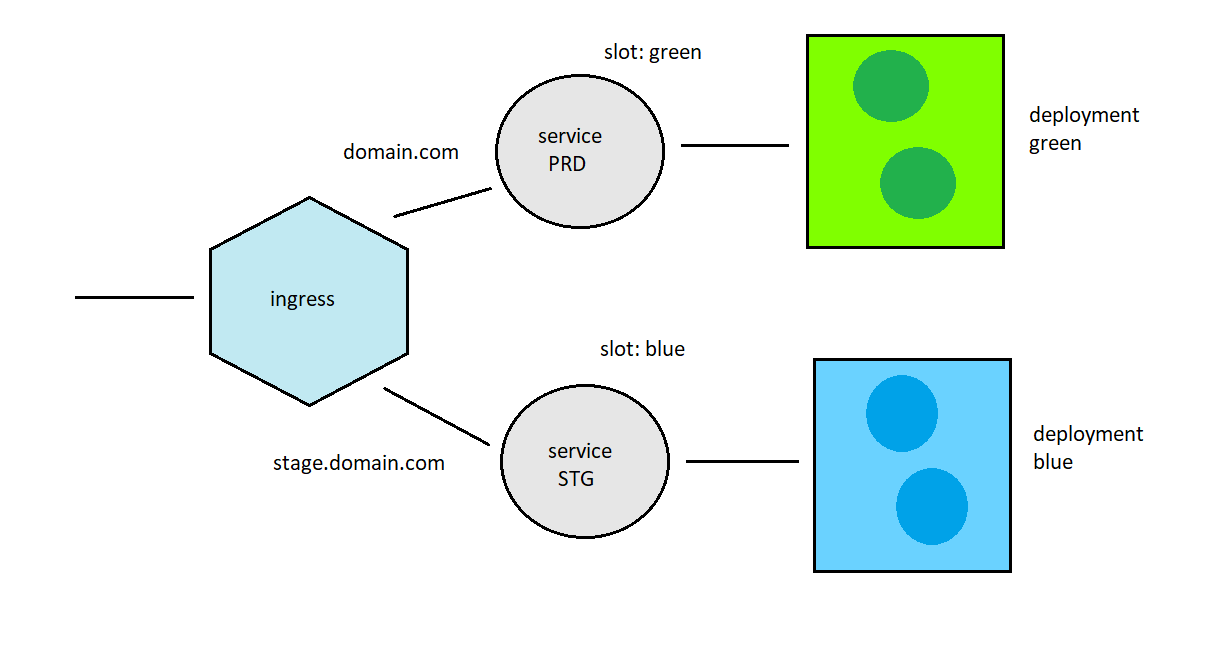
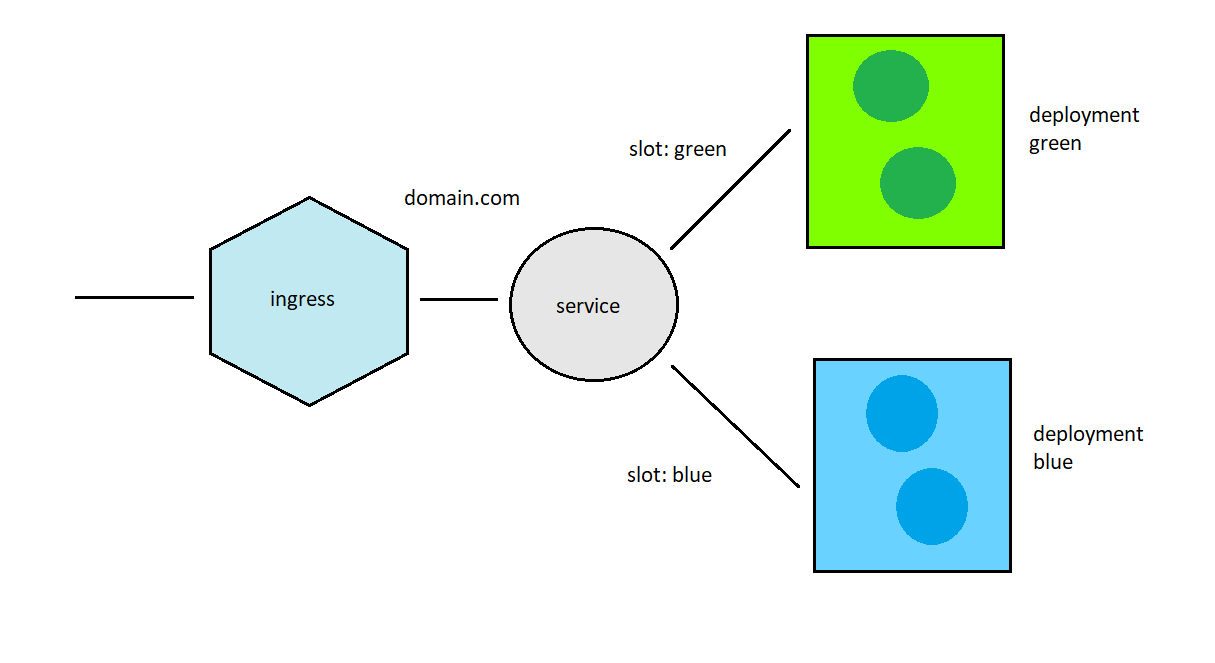
fixing documentation

diff --git a/README.md b/README.md
@@ -57,20 +57,17 @@ Looking at the yaml files in the template folder
 │   ├── green
 │   │   ├── config.yaml
 │   │   └── deployment.yaml
-│   ├── prd
-│   │   ├── ingress.yaml
-│   │   └── service.yaml
-│   └── stg
-│       ├── ingress.yaml
-│       └── service.yaml
+│   ├── ingress.yaml
+│   └── service.yaml
 └── values.yaml
+
 ```
 
 we get the following topology of the system
 
 ![](./topology.png)
 
-where the service prd and the service stg use the selector **slot:blue|green** to point the the right deployment.
+where the service use the selector **slot:blue|green** to point the the right deployment.
 
 ## Release 0.1.0
 
@@ -99,8 +96,7 @@ result
 NAME             TYPE           CLUSTER-IP      EXTERNAL-IP   PORT(S)                      AGE
 ingress-nginx    LoadBalancer   10.97.201.105   localhost     80:31940/TCP,443:30232/TCP   42h
 kubernetes       ClusterIP      10.96.0.1       <none>        443/TCP                      2d3h
-my-service-prd   ClusterIP      10.102.1.193    <none>        80/TCP                       38m
-my-service-stg   ClusterIP      10.102.94.73    <none>        80/TCP                       38m
+my-service       ClusterIP      10.102.1.193    <none>        80/TCP                       38m
 
 > kubectl get configmap
 NAME                              DATA   AGE
@@ -123,7 +119,7 @@ my-service-blue-598ffcc8d5-qwbbn            1/1     Running   0          2m37s
 my-service-green-7fb46c446d-mx8gs           1/1     Running   0          40m
 nginx-ingress-controller-7f74f657bd-gfxcv   1/1     Running   0          42h
 
-❯ curl http://localhost.prd/weatherforecast/slot -v
+❯ curl http://localhost/weatherforecast/slot -v
 *   Trying 127.0.0.1...
 * TCP_NODELAY set
 * Connected to localhost.prd (127.0.0.1) port 80 (#0)
@@ -146,30 +142,6 @@ nginx-ingress-controller-7f74f657bd-gfxcv   1/1     Running   0          42h
 <
 * Connection #0 to host localhost.prd left intact
 green - 0.1.0#
-
-❯ curl http://localhost.stg/weatherforecast/slot -v
-*   Trying 127.0.0.1...
-* TCP_NODELAY set
-* Connected to localhost.stg (127.0.0.1) port 80 (#0)
-> GET /weatherforecast/slot HTTP/1.1
-> Host: localhost.stg
-> User-Agent: curl/7.58.0
-> Accept: */*
->
-< HTTP/1.1 200 OK
-< Server: nginx/1.17.8
-< Date: Thu, 05 Mar 2020 12:05:00 GMT
-< Content-Type: text/plain; charset=utf-8
-< Transfer-Encoding: chunked
-< Connection: keep-alive
-< Vary: Accept-Encoding
-< Access-Control-Allow-Origin: *
-< Access-Control-Allow-Credentials: true
-< Access-Control-Allow-Methods: GET, PUT, POST, DELETE, PATCH, OPTIONS
-< Access-Control-Allow-Headers: DNT,X-CustomHeader,Keep-Alive,User-Agent,X-Requested-With,If-Modified-Since,Cache-Control,Content-Type,Authorization
-<
-* Connection #0 to host localhost.stg left intact
-blue - 0.1.0#
 
 ```
 
@@ -198,7 +170,7 @@ command
 result
 
 ```bash
-❯ curl http://localhost.stg/weatherforecast/slot -v
+❯ curl http://localhost/weatherforecast/slot -v
 *   Trying 127.0.0.1...
 * TCP_NODELAY set
 * Connected to localhost.stg (127.0.0.1) port 80 (#0)
@@ -220,30 +192,6 @@ result
 < Access-Control-Allow-Headers: DNT,X-CustomHeader,Keep-Alive,User-Agent,X-Requested-With,If-Modified-Since,Cache-Control,Content-Type,Authorization
 <
 * Connection #0 to host localhost.stg left intact
-blue - 0.2.0#
-
-❯ curl http://localhost.prd/weatherforecast/slot -v
-*   Trying 127.0.0.1...
-* TCP_NODELAY set
-* Connected to localhost.prd (127.0.0.1) port 80 (#0)
-> GET /weatherforecast/slot HTTP/1.1
-> Host: localhost.prd
-> User-Agent: curl/7.58.0
-> Accept: */*
->
-< HTTP/1.1 200 OK
-< Server: nginx/1.17.8
-< Date: Thu, 05 Mar 2020 12:09:02 GMT
-< Content-Type: text/plain; charset=utf-8
-< Transfer-Encoding: chunked
-< Connection: keep-alive
-< Vary: Accept-Encoding
-< Access-Control-Allow-Origin: *
-< Access-Control-Allow-Credentials: true
-< Access-Control-Allow-Methods: GET, PUT, POST, DELETE, PATCH, OPTIONS
-< Access-Control-Allow-Headers: DNT,X-CustomHeader,Keep-Alive,User-Agent,X-Requested-With,If-Modified-Since,Cache-Control,Content-Type,Authorization
-<
-* Connection #0 to host localhost.prd left intact
 green - 0.1.0#
 
 ```
@@ -273,7 +221,7 @@ command
 result
 
 ```bash
-❯ curl http://localhost.stg/weatherforecast/slot -v
+❯ curl http://localhost/weatherforecast/slot -v
 *   Trying 127.0.0.1...
 * TCP_NODELAY set
 * Connected to localhost.stg (127.0.0.1) port 80 (#0)
@@ -295,39 +243,13 @@ result
 < Access-Control-Allow-Headers: DNT,X-CustomHeader,Keep-Alive,User-Agent,X-Requested-With,If-Modified-Since,Cache-Control,Content-Type,Authorization
 <
 * Connection #0 to host localhost.stg left intact
-green - 0.1.0#
-
-❯ curl http://localhost.prd/weatherforecast/slot -v
-*   Trying 127.0.0.1...
-* TCP_NODELAY set
-* Connected to localhost.prd (127.0.0.1) port 80 (#0)
-> GET /weatherforecast/slot HTTP/1.1
-> Host: localhost.prd
-> User-Agent: curl/7.58.0
-> Accept: */*
->
-< HTTP/1.1 200 OK
-< Server: nginx/1.17.8
-< Date: Thu, 05 Mar 2020 12:09:02 GMT
-< Content-Type: text/plain; charset=utf-8
-< Transfer-Encoding: chunked
-< Connection: keep-alive
-< Vary: Accept-Encoding
-< Access-Control-Allow-Origin: *
-< Access-Control-Allow-Credentials: true
-< Access-Control-Allow-Methods: GET, PUT, POST, DELETE, PATCH, OPTIONS
-< Access-Control-Allow-Headers: DNT,X-CustomHeader,Keep-Alive,User-Agent,X-Requested-With,If-Modified-Since,Cache-Control,Content-Type,Authorization
-<
-* Connection #0 to host localhost.prd left intact
 blue - 0.2.0#
 
 ```
 
-![](./topology1.png)
+	
 
-
-
-Now the command to switch immediatly from gree to blue is
+Now the command to switch immediately from green to blue is:
 
 ```bash
 > kubectl patch svc my-service -p '{"spec":{"selector":{"slot": "blue"}}}'
